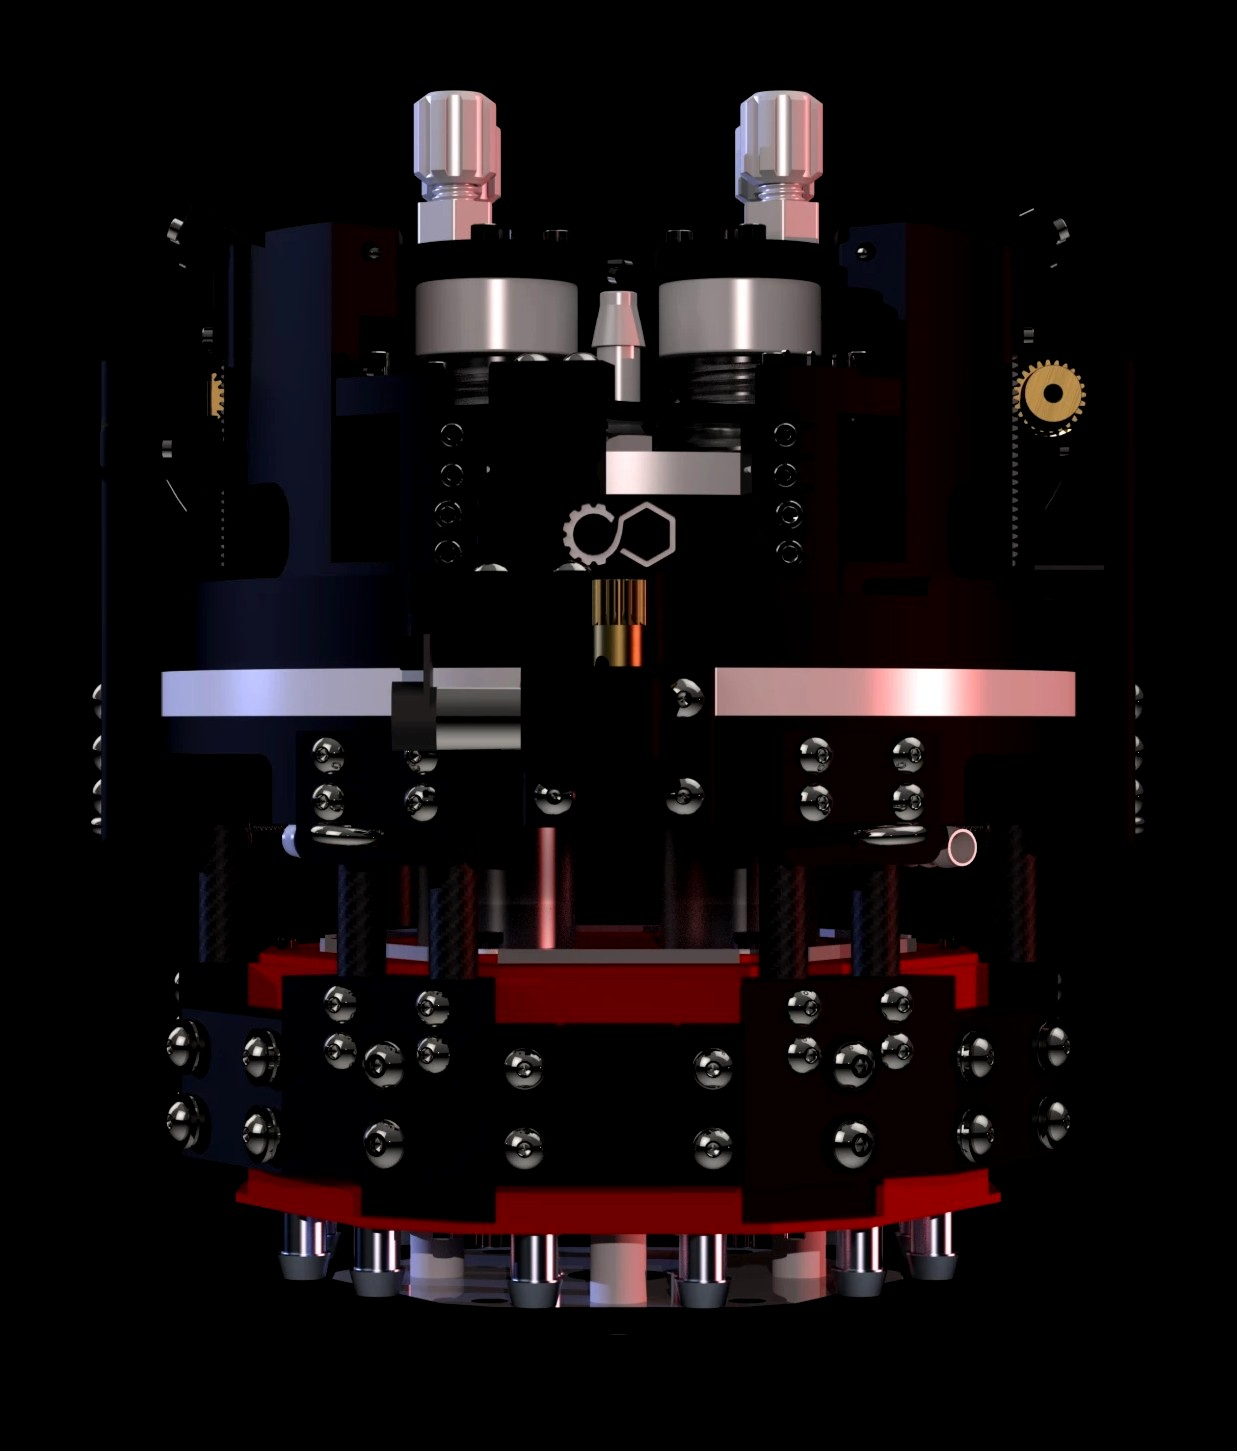
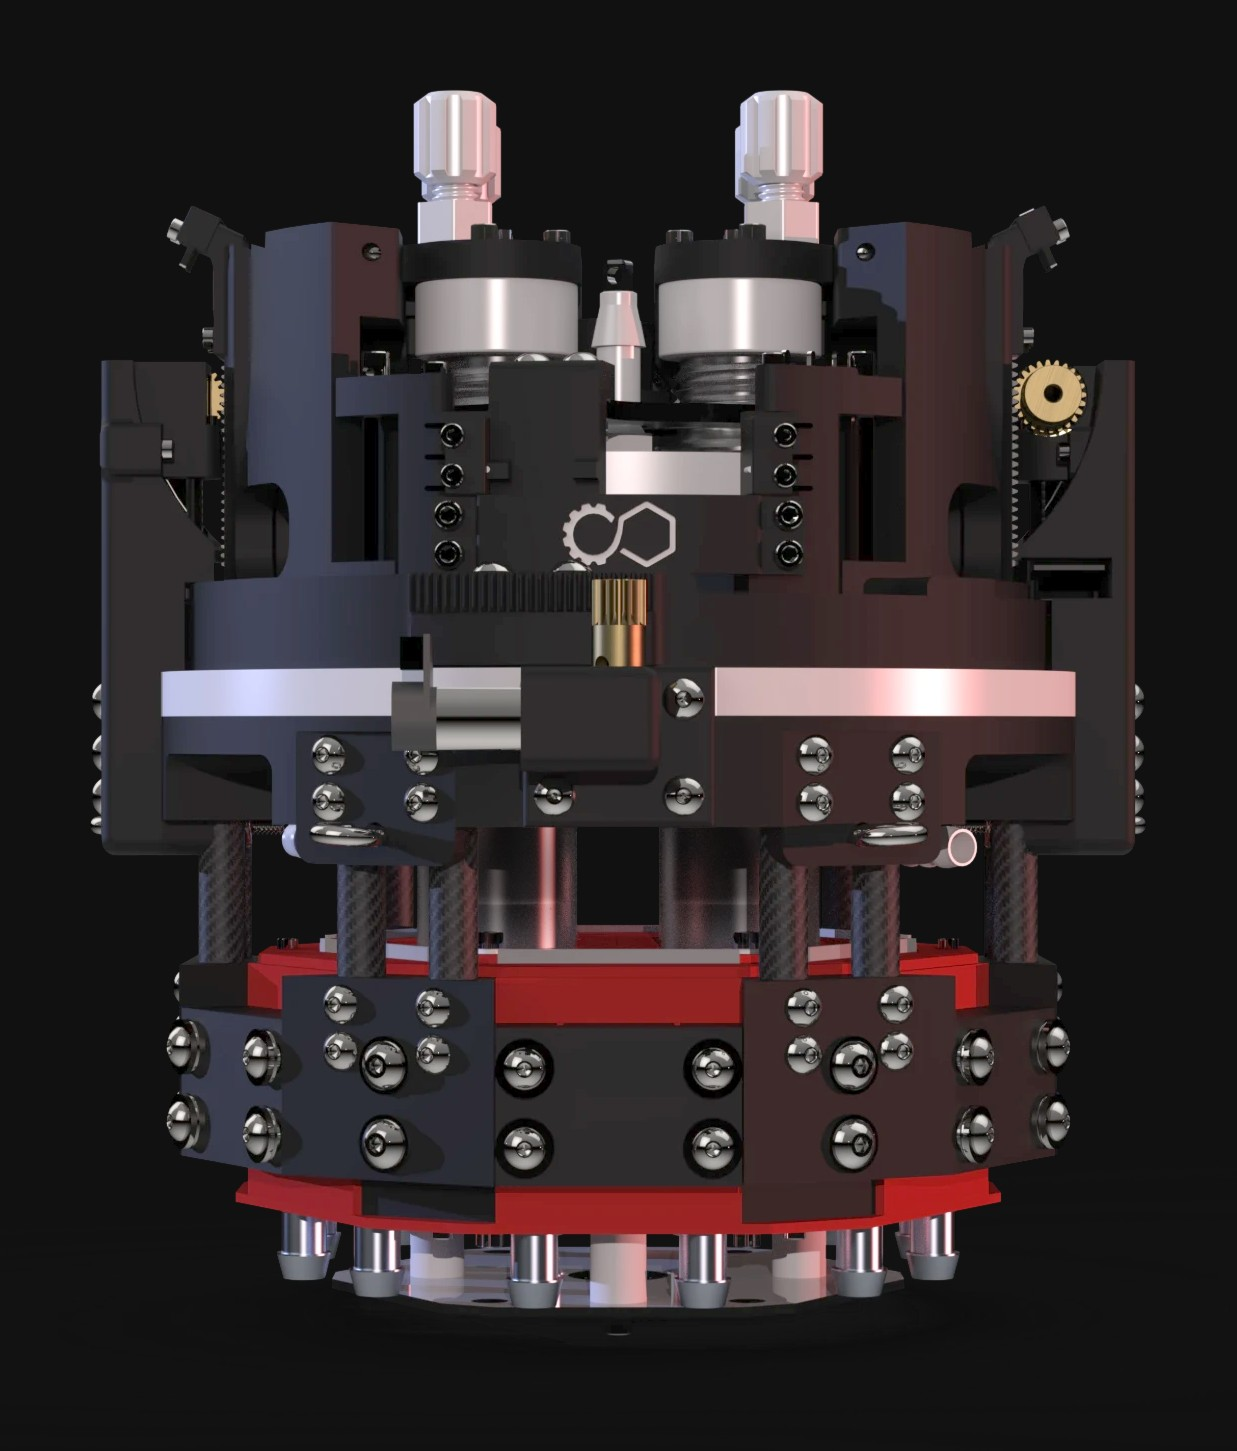
Chembotix: dark #111 page theme, brightened renders, add three-view render
Claude-Session: https://claude.ai/code/session_01FRyJPBebUtKmxdzujR9oGm

diff --git a/css/style.css b/css/style.css
@@ -9,10 +9,21 @@
   --dim: #77736b;     /* menu items, secondary text */
   --tile: #e4e1da;    /* shown behind images while they load */
   --panel: var(--bg); /* behind renders with transparent backgrounds — matches the page (white: #fff) */
+  --rule: #d9d5cc;    /* thin divider lines */
   --radius: 8px;      /* rounded image corners */
   --gap: 8px;         /* space between grid tiles */
   --edge: clamp(16px, 4vw, 80px);  /* page side margins */
 }
+
+/* Dark page theme — add class="theme-dark" to <body> (used on Chembotix) */
+.theme-dark {
+  --bg: #111111;      /* sampled from the Chembotix renders */
+  --ink: #ece9e3;
+  --dim: #8f8b84;
+  --tile: #1c1c1c;
+  --rule: #2e2e2e;
+}
+.theme-dark .project-head .logo img { filter: invert(1) brightness(.92); }
 
 * { box-sizing: border-box; }
 body { margin: 0; background: var(--bg); color: var(--ink); font: 300 17px/1.6 "Jost", "Futura", sans-serif; }
@@ -76,11 +87,11 @@ img { display: block; max-width: 100%; height: auto; }
 
 /* Sub-sections within a project (e.g. two design concepts) */
 .part { max-width: 1600px; margin: 72px auto 0; }
-.part-head { display: flex; align-items: baseline; gap: 16px; border-top: 1px solid #d9d5cc; padding-top: 18px; margin-bottom: 24px; }
+.part-head { display: flex; align-items: baseline; gap: 16px; border-top: 1px solid var(--rule); padding-top: 18px; margin-bottom: 24px; }
 .part-head .num { font-size: 14px; letter-spacing: .14em; color: var(--dim); }
 .part-head h2 { margin: 0; font-size: clamp(20px, 2vw, 26px); font-weight: 400; letter-spacing: .06em; text-transform: uppercase; }
 .features { max-width: 1100px; margin: 0 auto; display: grid; gap: 0 40px; grid-template-columns: repeat(auto-fit, minmax(min(100%, 220px), 1fr)); padding: 0; list-style: none; }
-.features li { border-top: 1px solid #d9d5cc; padding: 14px 0 18px; font-size: 16px; }
+.features li { border-top: 1px solid var(--rule); padding: 14px 0 18px; font-size: 16px; }
 .features li span { display: block; font-size: 12px; letter-spacing: .18em; color: var(--dim); margin-bottom: 4px; }
 
 /* Panel behind renders with transparent backgrounds (colour set by --panel) */
@@ -100,13 +111,13 @@ img { display: block; max-width: 100%; height: auto; }
 /* Long-form write-up between images */
 .story { max-width: 760px; margin: 72px auto; }
 .story h2 { margin: 0 0 14px; font-size: 14px; font-weight: 400; letter-spacing: .22em; text-transform: uppercase; color: var(--dim);
-  border-top: 1px solid #d9d5cc; padding-top: 18px; }
+  border-top: 1px solid var(--rule); padding-top: 18px; }
 .story p { margin: 0 0 1em; font-size: 18px; line-height: 1.7; }
 .story .pull { margin: 32px 0 0; padding: 4px 0 4px 24px; border-left: 2px solid var(--ink);
   font-size: clamp(20px, 2.2vw, 26px); line-height: 1.45; font-weight: 300; font-style: italic; }
 
 .pager { display: flex; justify-content: space-between; gap: 16px; flex-wrap: wrap; max-width: 1600px; margin: 64px auto 0;
-  padding-top: 24px; border-top: 1px solid #d9d5cc; font-size: 17px; letter-spacing: .06em; text-transform: uppercase; }
+  padding-top: 24px; border-top: 1px solid var(--rule); font-size: 17px; letter-spacing: .06em; text-transform: uppercase; }
 .pager a { color: var(--dim); }
 .pager a:hover { color: var(--ink); }
 

diff --git a/projects/chembotix.html b/projects/chembotix.html
@@ -10,7 +10,7 @@
   <link href="https://fonts.googleapis.com/css2?family=Jost:wght@300;400&display=swap" rel="stylesheet">
   <link rel="stylesheet" href="../css/style.css">
 </head>
-<body>
+<body class="theme-dark">
 
 <header class="site-header">
   <nav class="nav" aria-label="Main">
@@ -44,6 +44,10 @@
   </ul>
 
   <div class="shots" style="margin-top:56px">
+    <figure><img src="../images/projects/chembotix/reactor-views.jpg" alt="Three views of the Chembotix chemical reactor side by side: three-quarter, front, and from below" loading="lazy"></figure>
+  </div>
+
+  <div class="shots" style="margin-top:var(--gap)">
     <div class="row fit">
       <figure style="--ar:0.853"><img src="../images/projects/chembotix/reactor-front.jpg" alt="Chembotix chemical reactor from the front: black frame with red base, carbon fiber rods, and two vial lids with hose fittings" loading="lazy"><figcaption>Front</figcaption></figure>
       <figure style="--ar:0.798"><img src="../images/projects/chembotix/reactor-three-quarter.jpg" alt="Three-quarter view of the reactor showing four vial lids, condensers, and the drive gear" loading="lazy"><figcaption>Three-quarter · four vial lids</figcaption></figure>
